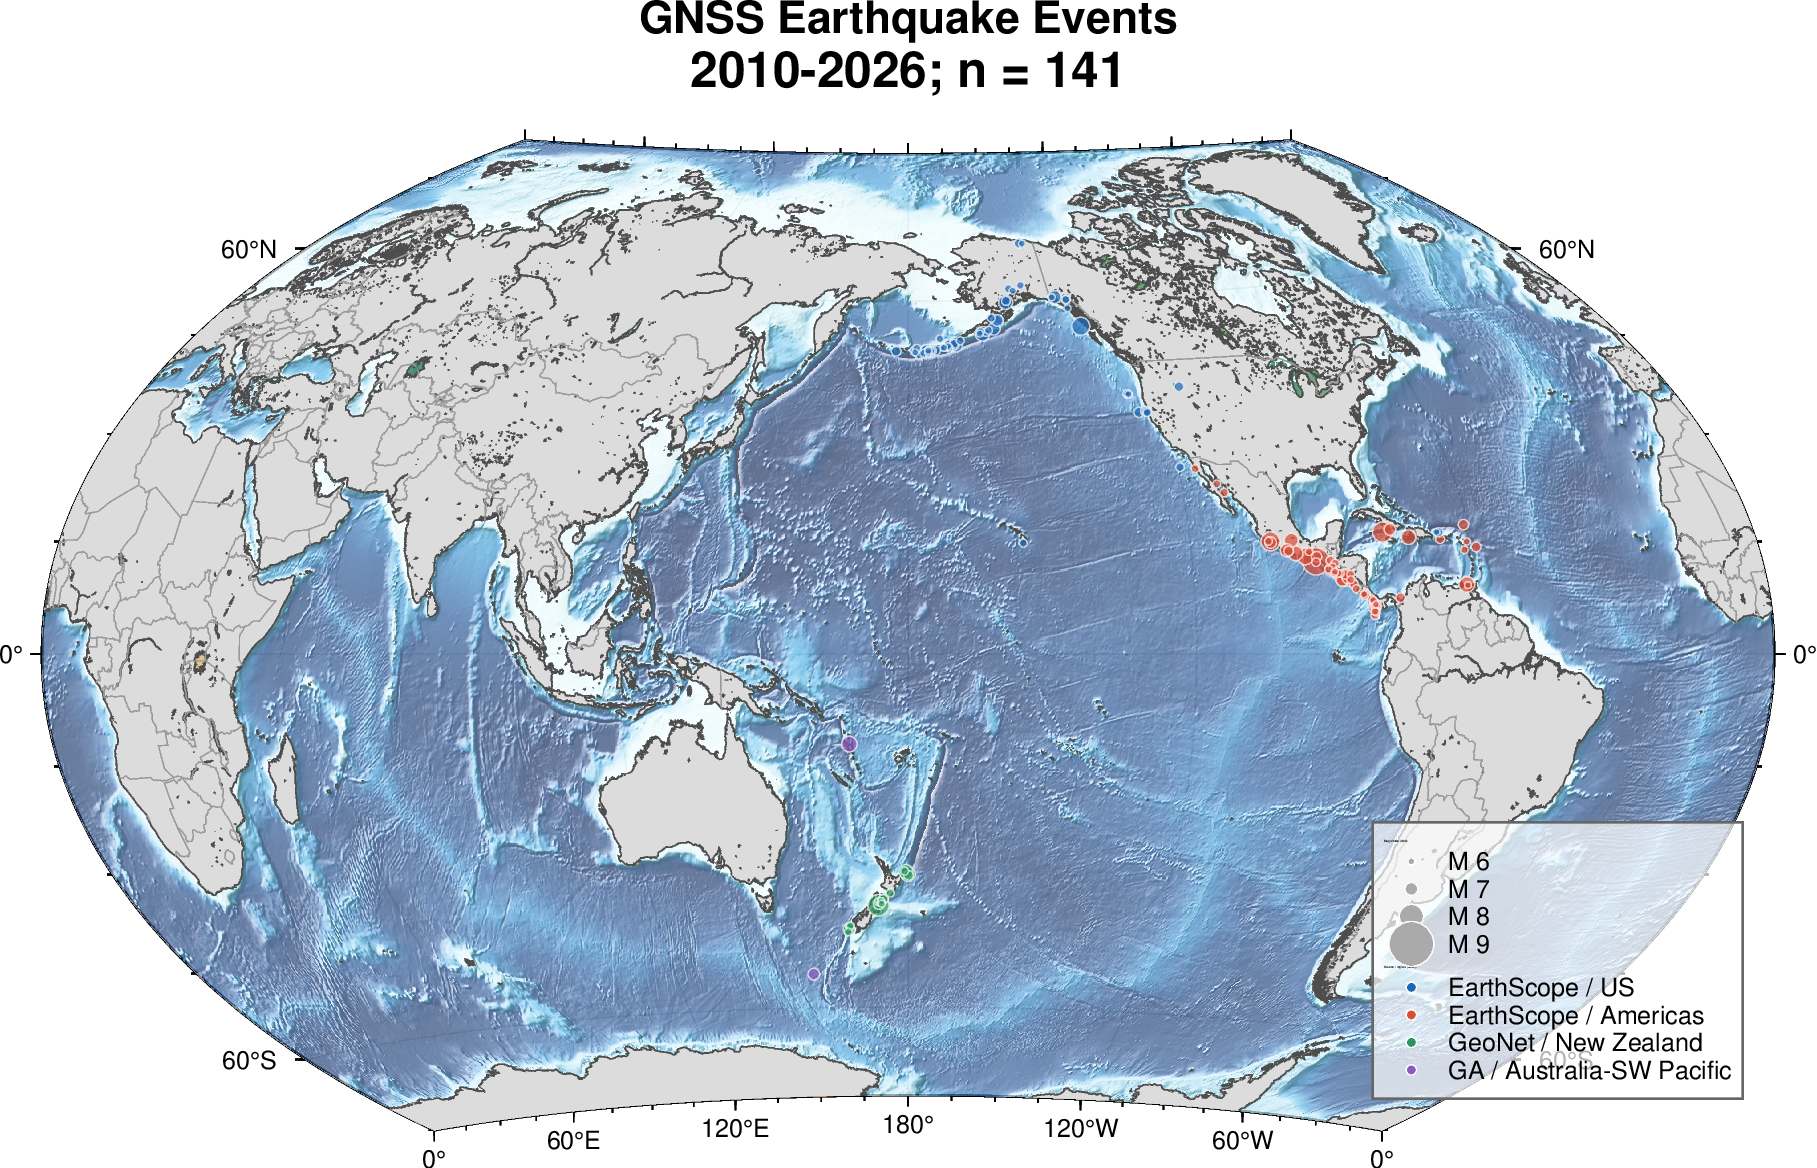
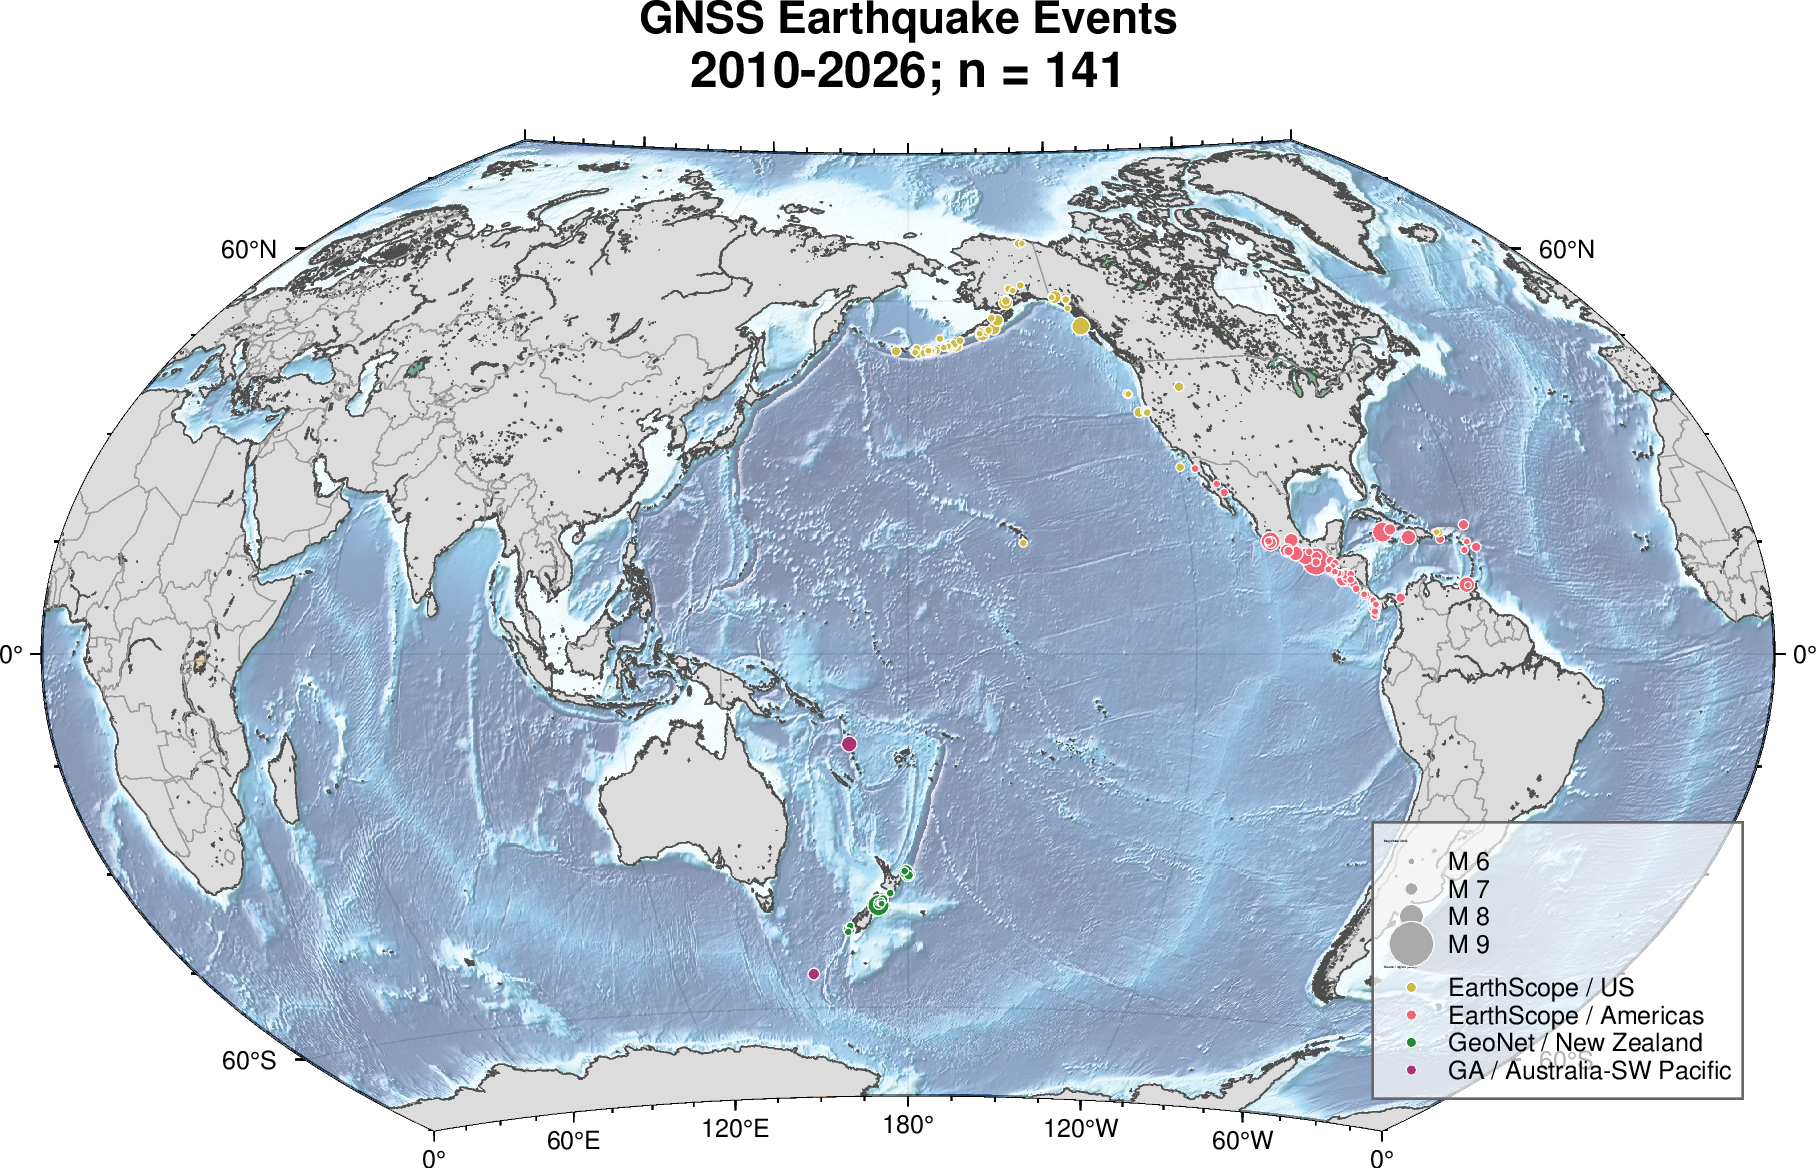
Improve world map color palette
Use a higher-contrast colorblind-friendly palette and lighter relief background so source regions are easier to distinguish in the README map.

diff --git a/scripts/plotting/plot_world_map.py b/scripts/plotting/plot_world_map.py
@@ -36,12 +36,12 @@ WORLD_RELIEF = next(
 )
 
 MAGNITUDE_LEGEND_FILL = "170/170/170"
-PEN_COLOR = "0.3p,white"
+PEN_COLOR = "0.25p,white"
 CATEGORY_COLORS = {
-    "EarthScope / US": "30/105/180",
-    "EarthScope / Americas": "215/75/55",
-    "GeoNet / New Zealand": "40/150/95",
-    "GA / Australia-SW Pacific": "140/90/190",
+    "EarthScope / US": "204/187/68",
+    "EarthScope / Americas": "238/102/119",
+    "GeoNet / New Zealand": "34/136/51",
+    "GA / Australia-SW Pacific": "170/51/119",
     "Unknown": "120/120/120",
 }
 CATEGORY_ORDER = [
@@ -137,12 +137,12 @@ def main():
         projection="R180/22c",
         frame=[
             "afg",
-            f"WSnE+tGNSS Earthquake Events+s{year_range}  ·  n = {n_total}",
+            f"WSnE+tGNSS Earthquake Events+s{year_range}; n = {n_total}",
         ],
     )
 
     pygmt.makecpt(cmap="geo", series=[-8000, 8000])
-    fig.grdimage(str(WORLD_RELIEF), shading="+d+a45+nt0.3", cmap=True, transparency=30)
+    fig.grdimage(str(WORLD_RELIEF), shading="+d+a45+nt0.3", cmap=True, transparency=45)
 
     fig.coast(
         shorelines="0.4p,gray30",
@@ -161,7 +161,7 @@ def main():
             size=[mag_to_size(event["magnitude"])],
             fill=CATEGORY_COLORS[category],
             pen=PEN_COLOR,
-            transparency=30,
+            transparency=0,
         )
 
     s6 = mag_to_size(6)
